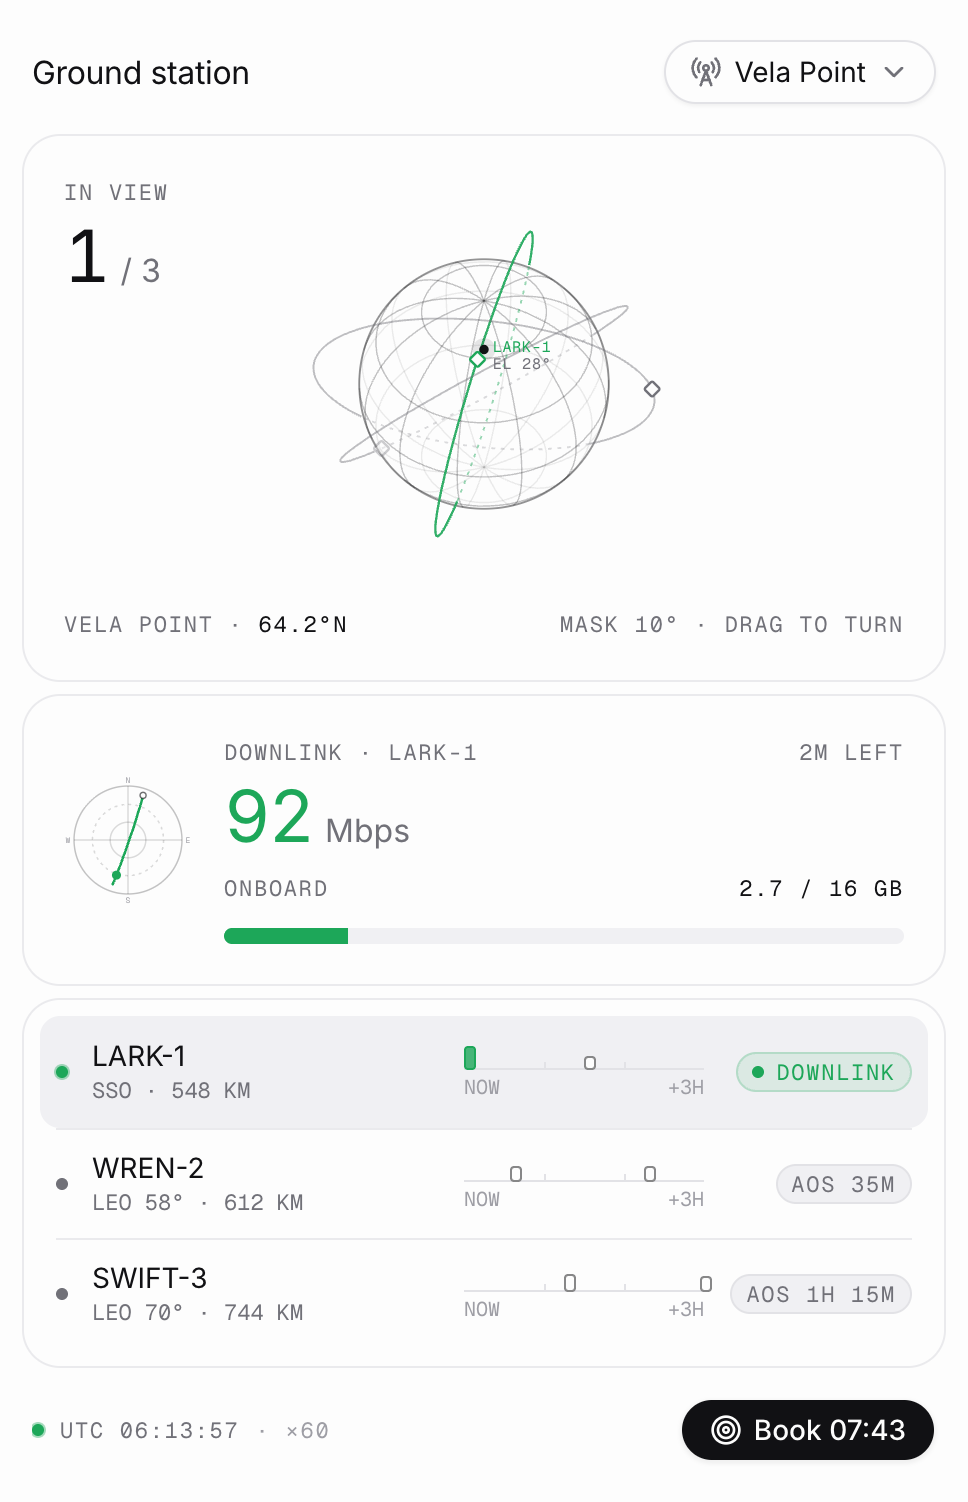
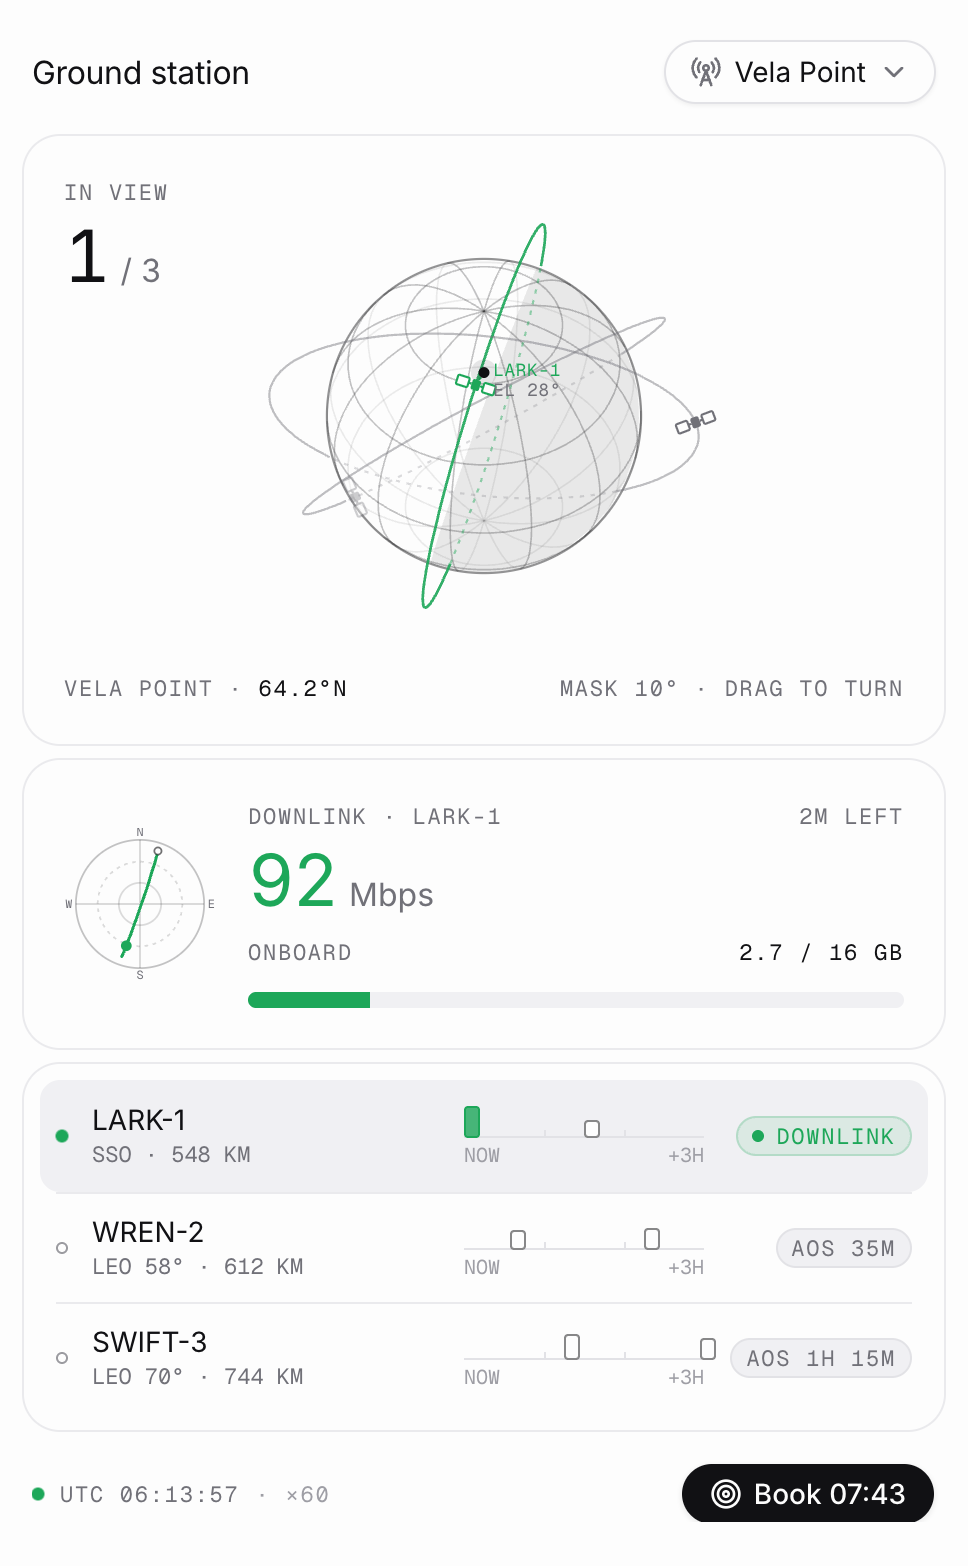
Ground station: satellite glyph along its heading, night side, bigger globe, recenter after turning, station-switch notice in the footer, hollow out-of-view dots, readable pass blocks

diff --git a/registry/blocks/ground-station.tsx b/registry/blocks/ground-station.tsx
@@ -1,6 +1,7 @@
 import * as React from "react"
 import { motion, useReducedMotion } from "motion/react"
-import { CheckIcon, Loader2Icon, RadioTowerIcon, TargetIcon } from "lucide-react"
+import { AnimatePresence } from "motion/react"
+import { CheckIcon, Loader2Icon, LocateFixedIcon, RadioTowerIcon, TargetIcon } from "lucide-react"
 
 import { cn } from "@/lib/utils"
 import { springSoft } from "@/lib/motion"
@@ -155,6 +156,50 @@ function project(v: V3, yaw: number, pitch: number, r: number, c: number): Proje
   return { x: c + r * x1, y: c - r * z2, front: !behind }
 }
 
+/** A vector in view space (same rotation as `project`, no projection). */
+function view(v: V3, yaw: number, pitch: number): V3 {
+  const x1 = v[0] * Math.cos(yaw) - v[1] * Math.sin(yaw)
+  const y1 = v[0] * Math.sin(yaw) + v[1] * Math.cos(yaw)
+  const z1 = v[2]
+  return [x1, y1 * Math.cos(pitch) - z1 * Math.sin(pitch), y1 * Math.sin(pitch) + z1 * Math.cos(pitch)]
+}
+
+/** Where the sun is overhead at UTC second-of-day `t` (late October: −12°). */
+function sunPoint(t: number): V3 {
+  const lon = rad(((12 * 3600 - (t % 86400)) / 3600) * 15) + earthAngle(t)
+  const lat = rad(-12)
+  return [Math.cos(lat) * Math.cos(lon), Math.cos(lat) * Math.sin(lon), Math.sin(lat)]
+}
+
+/**
+ * The night side as a filled path: the front half of the terminator (the
+ * great circle facing away from the sun) closed by the limb arc that lies
+ * in shadow.
+ */
+function nightPath(sun: V3, r: number, c: number) {
+  // Two axes spanning the terminator plane.
+  const a0 = cross(sun, Math.abs(sun[2]) < 0.9 ? [0, 0, 1] : [1, 0, 0])
+  const a = a0.map((x) => x / norm(a0)) as V3
+  const b = cross(sun, a)
+  const ring = Array.from({ length: 180 }, (_, i) => {
+    const t = (i / 180) * 2 * Math.PI
+    return [a[0] * Math.cos(t) + b[0] * Math.sin(t), a[1] * Math.cos(t) + b[1] * Math.sin(t), a[2] * Math.cos(t) + b[2] * Math.sin(t)] as V3
+  })
+  // Rotate the ring so its front half (y < 0, towards the viewer) is contiguous.
+  const k = ring.findIndex((p, i) => p[1] < 0 && ring[(i + 179) % 180][1] >= 0)
+  if (k < 0) return sun[1] > 0 ? `M${c - r} ${c}a${r} ${r} 0 1 0 ${2 * r} 0a${r} ${r} 0 1 0 ${-2 * r} 0` : ""
+  const front = [...ring.slice(k), ...ring.slice(0, k)].filter((p) => p[1] < 0)
+  const pt = (p: V3) => `${(c + r * p[0]).toFixed(1)} ${(c - r * p[2]).toFixed(1)}`
+  const A = front[0]
+  const B = front[front.length - 1]
+  // Close along the limb, on whichever side faces away from the sun.
+  const angle = (p: V3) => Math.atan2(p[2], p[0])
+  const mid = (angle(A) + angle(B)) / 2
+  const midNight = Math.cos(mid) * sun[0] + Math.sin(mid) * sun[2] < 0
+  const sweep = midNight === angle(B) < angle(A) ? 1 : 0
+  return `M${pt(front[0])}${front.slice(1).map((p) => `L${pt(p)}`).join("")}A${r} ${r} 0 0 ${sweep} ${pt(A)}Z`
+}
+
 /** Polyline split into front and back runs. */
 function runs(points: Projected[]) {
   const front: string[] = []
@@ -200,7 +245,7 @@ function Globe({
   const [grabbing, setGrabbing] = React.useState(false)
   const size = 220
   const c = size / 2
-  const r = 66
+  const r = 72
 
   // Follow the station round the planet; dragging adds an offset on top.
   const yaw = -Math.PI / 2 - (rad(site.lon) + earthAngle(time)) + drag.yaw
@@ -230,11 +275,29 @@ function Globe({
 
   const station = P(sitePoint(site, time))
   const selected = satellites.find((s) => s.id === selectedId)
+  const night = nightPath(view(sunPoint(time), yaw, pitch), r, c)
+  const turned = drag.yaw !== 0 || drag.pitch !== 0
 
   return (
+    <>
+    <AnimatePresence>
+      {turned && (
+        <motion.div
+          className="absolute top-4 right-4 z-10"
+          initial={{ opacity: 0, scale: 0.9 }}
+          animate={{ opacity: 1, scale: 1 }}
+          exit={{ opacity: 0, scale: 0.9 }}
+          transition={springSoft}
+        >
+          <Button variant="ghost" size="icon-sm" aria-label={`Face ${site.name}`} title={`Face ${site.name}`} className="text-muted-foreground" onClick={() => setDrag({ yaw: 0, pitch: 0 })}>
+            <LocateFixedIcon />
+          </Button>
+        </motion.div>
+      )}
+    </AnimatePresence>
     <svg
       viewBox={`0 0 ${size} ${size}`}
-      className={cn("mx-auto block h-52 w-52 touch-none select-none", grabbing ? "cursor-grabbing" : "cursor-grab")}
+      className={cn("mx-auto block size-60 touch-none select-none", grabbing ? "cursor-grabbing" : "cursor-grab")}
       role="img"
       aria-label={`Globe: ${site.name} and ${satellites.length} orbits. Drag to turn.`}
       onPointerDown={(e) => {
@@ -257,7 +320,10 @@ function Globe({
       }}
       onDoubleClick={() => setDrag({ yaw: 0, pitch: 0 })}
     >
-      <circle cx={c} cy={c} r={r} className="fill-card stroke-foreground/45" strokeWidth={1} />
+      <circle cx={c} cy={c} r={r} className="fill-card" />
+      {/* The night side: shade gives the sphere its volume. */}
+      {night && <path d={night} className="fill-foreground/[0.09] dark:fill-black/50" />}
+      <circle cx={c} cy={c} r={r} className="fill-none stroke-foreground/45" strokeWidth={1} />
       {graticule.map((line, i) => {
         const { front, back } = runs(line.map((v) => P(toInertial(v))))
         return (
@@ -303,12 +369,15 @@ function Globe({
       )}
 
       {satellites.map((s) => {
-        const p = P(orbitPoint(s.orbit, argAt(s.orbit, time)), shown(s.orbit.alt))
+        const u = argAt(s.orbit, time)
+        const p = P(orbitPoint(s.orbit, u), shown(s.orbit.alt))
+        const q = P(orbitPoint(s.orbit, u + 0.05), shown(s.orbit.alt))
+        const heading = deg(Math.atan2(q.y - p.y, q.x - p.x))
         const on = s.id === selectedId
         const isLive = live[s.id] !== undefined
         return (
           <g key={`sat-${s.id}`} opacity={p.front ? 1 : 0.35} className={isLive ? "text-success" : on ? "text-foreground" : "text-muted-foreground"}>
-            <rect x={p.x - 3} y={p.y - 3} width={6} height={6} rx={1} transform={`rotate(45 ${p.x} ${p.y})`} className="fill-card stroke-current" strokeWidth={1.25} />
+            <SatelliteGlyph x={p.x} y={p.y} heading={heading} />
             {on && selected && (
               <text x={p.x + 8} y={p.y - 4} className="fill-current font-mono text-[8px] tracking-wider uppercase">
                 <tspan>{s.id}</tspan>
@@ -322,6 +391,19 @@ function Globe({
       })}
       <title>{`Mask ${mask}°`}</title>
     </svg>
+    </>
+  )
+}
+
+/** A satellite: a body between two solar panels, panels across its heading. */
+function SatelliteGlyph({ x, y, heading }: { x: number; y: number; heading: number }) {
+  return (
+    <g transform={`translate(${x} ${y}) rotate(${heading + 90})`}>
+      <path d="M-2 0H-3.5M2 0H3.5" className="stroke-current" strokeWidth={1} />
+      <rect x={-9} y={-2.25} width={5.5} height={4.5} rx={0.75} className="fill-card stroke-current" strokeWidth={1} />
+      <rect x={3.5} y={-2.25} width={5.5} height={4.5} rx={0.75} className="fill-card stroke-current" strokeWidth={1} />
+      <rect x={-2} y={-2.5} width={4} height={5} rx={1} className="fill-current" />
+    </g>
   )
 }
 
@@ -338,13 +420,13 @@ function SkyPlot({ track, now, live }: { track: { az: number; el: number }[]; no
   const pts = track.map(at)
   const here = now && at(now)
   return (
-    <svg viewBox="0 0 64 64" className="size-16 shrink-0" aria-hidden>
+    <svg viewBox="0 0 64 64" className="size-[76px] shrink-0" aria-hidden>
       <circle cx={c} cy={c} r={R} className="fill-none stroke-foreground/25" strokeWidth={0.75} />
       <circle cx={c} cy={c} r={R * 0.66} className="fill-none stroke-foreground/15" strokeWidth={0.75} strokeDasharray="1.5 2" />
       <circle cx={c} cy={c} r={R * 0.33} className="fill-none stroke-foreground/15" strokeWidth={0.75} />
       <path d={`M${c} ${c - R}V${c + R}M${c - R} ${c}H${c + R}`} className="stroke-foreground/15" strokeWidth={0.75} />
       {["N", "E", "S", "W"].map((l, i) => (
-        <text key={l} x={c + [0, R + 3, 0, -R - 3][i]} y={c + [-R - 1.5, 1.5, R + 4.5, 1.5][i]} textAnchor="middle" className="fill-faint-foreground font-mono text-[4px]">
+        <text key={l} x={c + [0, R + 3, 0, -R - 3][i]} y={c + [-R - 1.5, 1.5, R + 4.5, 1.5][i]} textAnchor="middle" className="fill-muted-foreground font-mono text-[5px]">
           {l}
         </text>
       ))}
@@ -370,7 +452,7 @@ function PassTimeline({ windows, now, span, live }: { windows: Pass[]; now: numb
   const pct = (t: number) => Math.max(0, Math.min(100, ((t - now) / span) * 100))
   return (
     <div className="flex w-full flex-col gap-1" aria-hidden>
-      <div className="relative h-3">
+      <div className="relative h-4">
         <div className="absolute inset-x-0 bottom-0 h-px bg-border" />
         {[1, 2].map((i) => (
           <div key={i} className="absolute bottom-0 h-1 w-px bg-border" style={{ left: `${(i / 3) * 100}%` }} />
@@ -388,7 +470,7 @@ function PassTimeline({ windows, now, span, live }: { windows: Pass[]; now: numb
                 "absolute bottom-0 rounded-[2px] border",
                 current ? "border-success bg-success/80" : "border-foreground/50 bg-card"
               )}
-              style={{ left: `${left}%`, width: `max(6px, ${width}%)`, height: `${5 + (w.maxEl / 90) * 7}px` }}
+              style={{ left: `${left}%`, width: `max(8px, ${width}%)`, height: `${7 + (w.maxEl / 90) * 9}px` }}
             />
           )
         })}
@@ -423,6 +505,13 @@ const aos = (seconds: number) => {
   if (m < 60) return `${m}m`
   return m % 60 ? `${Math.floor(m / 60)}h ${m % 60}m` : `${m / 60}h`
 }
+
+const swap = {
+  initial: { opacity: 0, y: 4 },
+  animate: { opacity: 1, y: 0 },
+  exit: { opacity: 0, y: -4 },
+  transition: { duration: 0.2 },
+} as const
 
 const coord = (v: number, pos: string, neg: string) => `${Math.abs(v).toFixed(1)}°${v >= 0 ? pos : neg}`
 
@@ -462,6 +551,9 @@ export function GroundStation({
 }) {
   const site = stations.find((s) => s.id === stationId) ?? stations[0]
   const [booked, setBooked] = React.useState<{ key: string; state: "pending" | "done" } | null>(null)
+  // Switching station says so for a moment, where the clock usually is.
+  const [notice, setNotice] = React.useState<string | null>(null)
+  const noticeTimer = React.useRef<number | undefined>(undefined)
 
   // Everything below is a function of (site, orbits, time): no state to drift.
   const rows = satellites.map((s) => {
@@ -492,7 +584,16 @@ export function GroundStation({
       <WidgetHeader>
         <WidgetTitle>{title}</WidgetTitle>
         <WidgetActions>
-          <Select value={site.id} onValueChange={(v) => v && onStationChange?.(v)}>
+          <Select
+            value={site.id}
+            onValueChange={(v) => {
+              if (!v || v === site.id) return
+              onStationChange?.(v)
+              setNotice(`Tracking from ${stations.find((s) => s.id === v)?.name ?? v}`)
+              window.clearTimeout(noticeTimer.current)
+              noticeTimer.current = window.setTimeout(() => setNotice(null), 2600)
+            }}
+          >
             <SelectTrigger aria-label="Station">
               <RadioTowerIcon className="text-muted-foreground" />
               <SelectValue>{(v: string) => stations.find((s) => s.id === v)?.name}</SelectValue>
@@ -598,7 +699,12 @@ export function GroundStation({
                 // Phones keep name and state; the timeline needs room to mean anything.
                 className="grid-cols-[auto_minmax(0,1fr)_92px] gap-x-3 sm:grid-cols-[auto_minmax(0,1fr)_minmax(64px,120px)_92px]"
               >
-                <StatusDot tone={r.live ? (r.sat.id === sel.sat.id ? "success" : "info") : "neutral"} pulse={r.live} />
+                {/* Filled: in view now. Hollow: out of view. */}
+                {r.live ? (
+                  <StatusDot tone={r.sat.id === sel.sat.id ? "success" : "info"} pulse />
+                ) : (
+                  <span aria-hidden className="size-1.5 shrink-0 rounded-full border border-muted-foreground/70" />
+                )}
                 <span className="flex min-w-0 flex-col">
                   <span className="truncate">{r.sat.id}</span>
                   <span className="truncate font-mono text-[11px] text-muted-foreground uppercase">{r.sat.label}</span>
@@ -616,11 +722,24 @@ export function GroundStation({
       </WidgetPanel>
 
       <WidgetFooter>
-        <WidgetMeta className="flex items-center gap-2 font-mono">
-          <StatusDot tone="success" pulse />
-          UTC {clock(time)}
-          {speed !== 1 && <span className="text-faint-foreground">· ×{speed}</span>}
-        </WidgetMeta>
+        <AnimatePresence mode="wait" initial={false}>
+          {notice ? (
+            <motion.span key="notice" {...swap}>
+              <WidgetMeta className="flex items-center gap-2 text-foreground">
+                <CheckIcon className="size-3.5 text-success" />
+                {notice}
+              </WidgetMeta>
+            </motion.span>
+          ) : (
+            <motion.span key="clock" {...swap}>
+              <WidgetMeta className="flex items-center gap-2 font-mono">
+                <StatusDot tone="success" pulse />
+                UTC {clock(time)}
+                {speed !== 1 && <span className="text-faint-foreground">· ×{speed}</span>}
+              </WidgetMeta>
+            </motion.span>
+          )}
+        </AnimatePresence>
         {book && onBook && (
           <Button
             variant="brand"

diff --git a/skills/uia/references/examples.md b/skills/uia/references/examples.md
@@ -22,7 +22,7 @@ your visual reference. Screenshots are also in the uia repo under
 | --- | --- | --- | --- |
 | AI spend | `example-ai-spend` | number vs limit, `MeterBar` with markers, projection, alert line with new info, list as legend with hover | budgets, quotas, usage, any "how much of X" |
 | Fleet health | `example-fleet-health` | big live number + delta + `Sparkline`, row of three `TickMeter` stats, heatmap with tooltip, view modes (`Segmented`), focus, an action that changes the data | monitoring, infrastructure, live metrics, grids of things |
-| Ground station | `example-ground-station` | drag-to-turn wireframe globe with orbits (front solid, back dashed), "in view" stat, sky plot of the pass (dashed when upcoming, live in `success`), countdown or live Mbps, onboard `MeterBar`, satellites as `WidgetListRow`s with a 3 h pass timeline + `StatusBadge`, station `Select` with mono coordinates, UTC clock ×60 in the footer and a Book CTA that books the next pass (never the one under way); phones drop the timelines | live tracking of things moving over a place (satellites, fleets, deliveries), any widget with a spatial view + a list of upcoming windows |
+| Ground station | `example-ground-station` | drag-to-turn wireframe globe with orbits (front solid, back dashed), the night side shaded for volume, satellites as a small glyph along their heading, a recenter button only once turned, "in view" stat, sky plot of the pass (dashed when upcoming, live in `success`), countdown or live Mbps, onboard `MeterBar`, satellites as `WidgetListRow`s with a 3 h pass timeline + `StatusBadge`, station `Select` with mono coordinates, UTC clock ×60 in the footer and a Book CTA that books the next pass (never the one under way); switching station says "Tracking from …" where the clock is, for a moment (no toast); out-of-view rows use a hollow dot; phones drop the timelines | live tracking of things moving over a place (satellites, fleets, deliveries), any widget with a spatial view + a list of upcoming windows |
 | Model router | `example-model-router` | number + `Segmented` policy, flow graph linked to a list, inline controls in a sentence (Fallback if … retry on …), deploy with states | configuration with a preview, routing, A/B, policies |
 | Agent runtime | `example-agent-runtime` | small number of things with state, illustration that highlights the focused thing, list rows with badge + countdown, select → act | resources with lifecycle (jobs, agents, sandboxes, workers) |
 | Model evals (pt-BR) | `example-model-evals` | number vs a baseline *and* a target (`MeterBar` with `min` to zoom), per-row comparison bars with a baseline tick, click a row to filter a second list, re-run with states, Brazilian formatting | quality, scores, A/B results, anything compared to a previous version |
